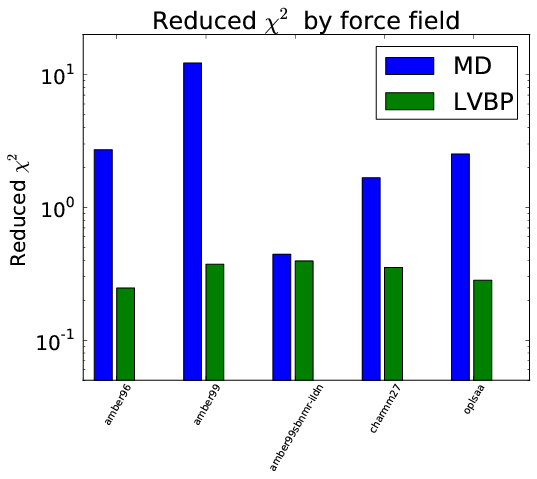
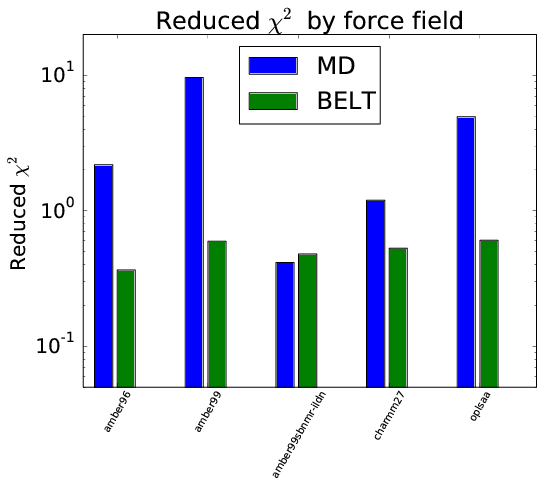
More updates:

Changed region(s): [[0.0, 0.0, 0.9832, 0.9937], [0.9832, 0.0877, 1.0, 0.7891]]

diff --git a/index.html b/index.html
@@ -161,7 +161,7 @@ Jonsson, 2012  A673 T673 V673
 <slide  >
   
     <hgroup>
-      <h2>Limitations of current understanding</h2>
+      <h2>Limitations of atomic understanding</h2>
       <h3></h3>
     </hgroup>
     <article ><p>Structure:</p>
@@ -172,7 +172,8 @@ Jonsson, 2012  A673 T673 V673
 <p>Equilibrium / Kinetics:</p>
 <ul>
 <li>Limited structural and temporal resolution </li>
-<li>Interpreting / integrating data from multiple experiments</li>
+<li>Interpreting data at atomic scale</li>
+<li>Integrating data from multiple experiments</li>
 </ul></article>
  
 </slide>
@@ -228,8 +229,8 @@ Shaw, 2011
     </hgroup>
     <article ><ul>
 <li>Calculate experimental observables</li>
-<li>Interpret experimental observables</li>
 <li>Generate atomic-detail hypotheses</li>
+<li>Interpret experimental observables</li>
 </ul></article>
  
 </slide>
@@ -515,9 +516,8 @@ Beauchamp, K. A., McGibbon, R., Lin, Y. S., & Pande, V. S. (2012). Simple few-st
       <h3></h3>
     </hgroup>
     <article ><ul>
-<li>Like FRET, but sensitive at the Å level </li>
+<li>Like FRET, but sensitive at the Å scale </li>
 <li>Used to monitor rates of contact formation</li>
-<li>With denaturant, can probe native and unfolded states</li>
 </ul></article>
  
 </slide>
@@ -858,6 +858,8 @@ Regarded from two sides.  Diet Wiegman, 1984.
     <article ><ul>
 <li>Infer conformational ensembles from simulation <b>and</b> experiment</li>
 <li>Simulataneously model structure and population</li>
+<li>Characterize posterior through MCMC</li>
+<li>Consistent with ambiguous data</li>
 <li>Error bars on equilibrium <b>and</b> structural features</li>
 </ul></article>
  
@@ -976,7 +978,7 @@ Regarded from two sides.  Diet Wiegman, 1984.
 <slide  >
   
     <hgroup>
-      <h2>Idea: Use chemical shifts and scalar couplings to reweight trialanine simulation.</h2>
+      <h2>Idea: Use chemical shifts and scalar couplings to reweight simulations of trialanine performed in five different force fields.</h2>
       <h3></h3>
     </hgroup>
     <article ></article>
@@ -1075,7 +1077,8 @@ Palmer et al. JACS, 2003.
     </hgroup>
     <article ><p><center>
 <img height=450 src=figures/BPTI_RMSD_Shaw.png />
-</center></p></article>
+</center></p>
+<footer class="source"> Shaw, 2010  </footer></article>
  
 </slide>
 
@@ -1097,7 +1100,8 @@ Palmer et al. JACS, 2003.
     </hgroup>
     <article ><p><center>
 <img height=500 src=figures/bpti_chi14_raw.png />
-</center></p></article>
+</center></p>
+<footer class="source"> Crystal Structure shown as X  </footer></article>
  
 </slide>
 
@@ -1109,7 +1113,8 @@ Palmer et al. JACS, 2003.
     </hgroup>
     <article ><p><center>
 <img height=500 src=figures/bpti_chi14_belt.png />
-</center></p></article>
+</center></p>
+<footer class="source"> Crystal Structure shown as X  </footer></article>
  
 </slide>
 
@@ -1156,25 +1161,11 @@ Palmer et al. JACS, 2003.
 <slide  >
   
     <hgroup>
-      <h2>Structural (Ensemble?) Biology</h2>
-      <h3></h3>
-    </hgroup>
-    <article ><ul>
-<li>Model combines simulation and experiment</li>
-<li>Error bars on structures</li>
-<li>Overcome forcefield bias</li>
-</ul></article>
- 
-</slide>
-
-<slide  >
-  
-    <hgroup>
       <h2>Conclusion</h2>
       <h3></h3>
     </hgroup>
     <article ><ul>
-<li>MSMs parallelize MD simulation, enabling millisecond-scale dynamics</li>
+<li>MSMs parallelize MD simulation, bringing millisecond-scale dynamics within reach</li>
 <li>MSMs allow both quantitative prediction and intuitive modeling</li>
 <li>BELT enables experiment-driven modeling of structure and equilibrium</li>
 </ul></article>

diff --git a/slides.md b/slides.md
@@ -68,7 +68,7 @@ subtitle: Biophysical experiments characterize equilibrium and kinetic propertie
 <img height=300 src=figures/HP35_CD.png />  <img height=300 src=figures/HP35_relaxation.png /> 
 
 ---
-title: Limitations of current understanding
+title: Limitations of atomic understanding
 
 Structure:
 
@@ -78,7 +78,8 @@ Structure:
 Equilibrium / Kinetics:
 
 - Limited structural and temporal resolution 
-- Interpreting / integrating data from multiple experiments
+- Interpreting data at atomic scale
+- Integrating data from multiple experiments
 
 
 ---
@@ -112,8 +113,8 @@ Shaw, 2011
 title: Goals of Atomistic Simulation
 
 - Calculate experimental observables
-- Interpret experimental observables
 - Generate atomic-detail hypotheses
+- Interpret experimental observables
 
 ---
 title: Outline
@@ -320,9 +321,8 @@ title: HP35: A Model for Protein Folding
 ---
 title: Triplet Triplet Energy Transfer
 
-- Like FRET, but sensitive at the Å level 
+- Like FRET, but sensitive at the Å scale 
 - Used to monitor rates of contact formation
-- With denaturant, can probe native and unfolded states
 
 ---
 title: Triplet Triplet Energy Transfer
@@ -536,10 +536,12 @@ title: Ambiguous Measurements
 </center>
 
 ---
-title: Bayesian Energy Landscape Tilting
+title: Bayesian Energy Landscape Tilting 
 
 - Infer conformational ensembles from simulation <b>and</b> experiment
 - Simulataneously model structure and population
+- Characterize posterior through MCMC
+- Consistent with ambiguous data
 - Error bars on equilibrium <b>and</b> structural features
 
 ---
@@ -623,7 +625,7 @@ title: Trialanine
 <footer class="source"> Schwalbe, 2007  </footer>
 
 ---
-title: Idea: Use chemical shifts and scalar couplings to reweight trialanine simulation.
+title: Idea: Use chemical shifts and scalar couplings to reweight simulations of trialanine performed in five different force fields.
 
 ---
 title: BELT Corrects Force Field Error
@@ -687,6 +689,7 @@ title: Are BPTI Simulations Consistent with Experiment?
 <img height=450 src=figures/BPTI_RMSD_Shaw.png />
 </center>
 
+<footer class="source"> Shaw, 2010  </footer>
 ---
 title: Idea: Use chemical shifts to reweight BPTI simulation.
 
@@ -698,7 +701,7 @@ title: Simulation Favors Non-Native State
 <img height=500 src=figures/bpti_chi14_raw.png />
 </center>
 
-
+<footer class="source"> Crystal Structure shown as X  </footer>
 
 ---
 title: BELT model Favors Native State
@@ -707,6 +710,8 @@ title: BELT model Favors Native State
 <img height=500 src=figures/bpti_chi14_belt.png />
 </center>
 
+
+<footer class="source"> Crystal Structure shown as X  </footer>
 ---
 title: Models for BPTI
 
@@ -733,16 +738,9 @@ title: Future Work
 - Start with better simulations
 
 ---
-title: Structural (Ensemble?) Biology
-
-- Model combines simulation and experiment
-- Error bars on structures
-- Overcome forcefield bias
-
----
 title: Conclusion
 
-- MSMs parallelize MD simulation, enabling millisecond-scale dynamics
+- MSMs parallelize MD simulation, bringing millisecond-scale dynamics within reach
 - MSMs allow both quantitative prediction and intuitive modeling
 - BELT enables experiment-driven modeling of structure and equilibrium
 
